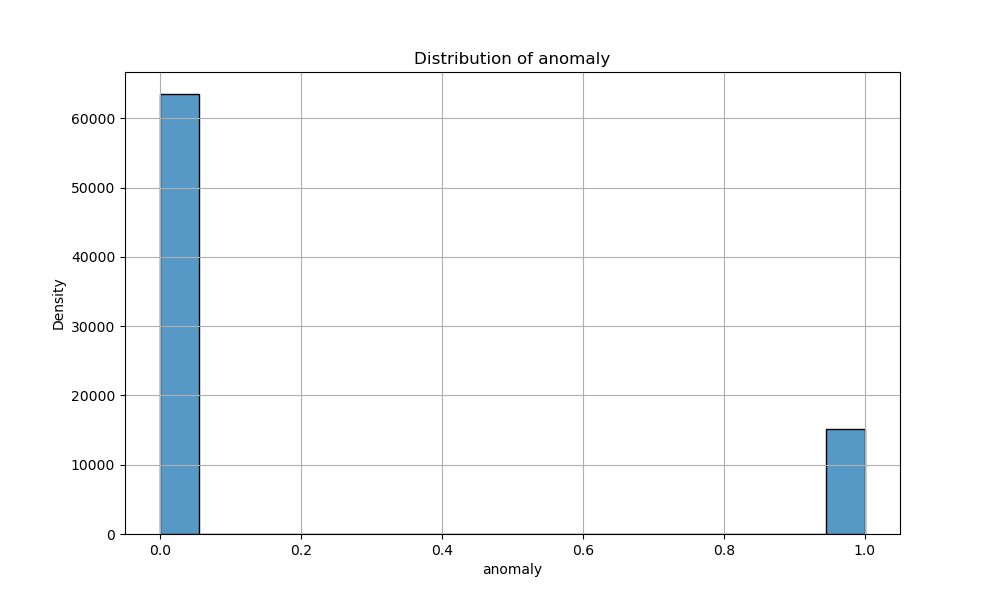
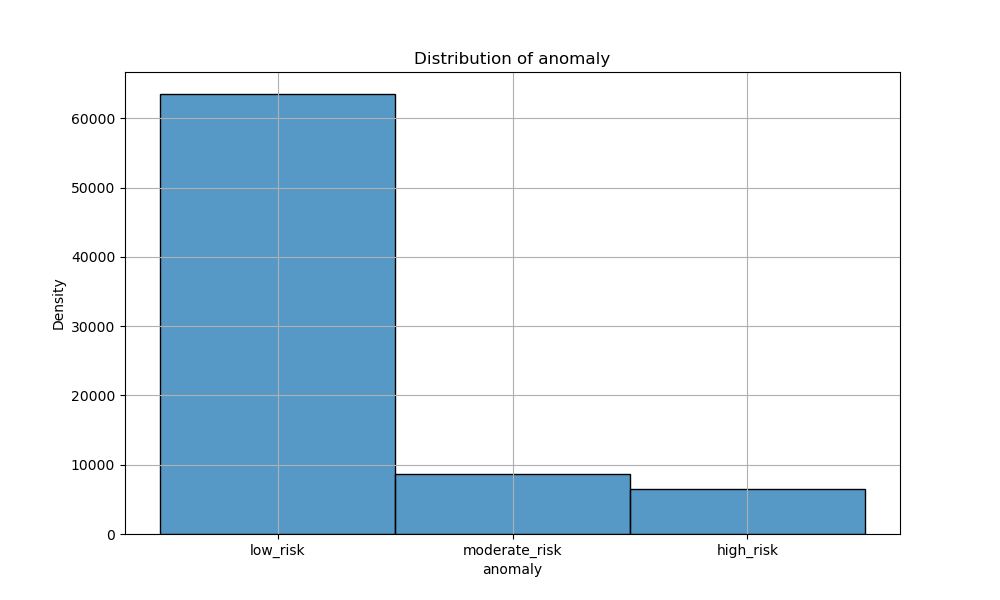
Add new metrics for unsupervised learning models

Changed region(s): [[0.186, 0.15, 0.868, 0.93], [0.155, 0.9, 0.186, 0.93]]

diff --git a/models/ds1_creditcard.py b/models/ds1_creditcard.py
@@ -281,10 +281,10 @@ if __name__ == '__main__':
     unsupervised_metrics_df = pd.DataFrame(unsupervised_metrics)
 
     # Save the metrics to a CSV file
-    metrics_df.to_csv('./Metrics(DS1).csv', index=False)
+    metrics_df.to_csv('../results/Metrics(DS1).csv', index=False)
     _logger.info('The evaluation results are saved to CSV file.')
 
-    unsupervised_metrics_df.to_csv('./Unsupervised_Metrics(DS1).csv', index=False)
+    unsupervised_metrics_df.to_csv('../results/Unsupervised_Metrics(DS1).csv', index=False)
     _logger.info('The evaluation results for unsupervised learning are saved to CSV file.')
 
     # Visualizing the results ROC-AUC Score - Runtime
@@ -298,7 +298,7 @@ if __name__ == '__main__':
     plt.xlabel('Runtime', fontsize=14, fontweight='bold')
     plt.ylabel('ROC AUC Score', fontsize=14, fontweight='bold')
     plt.title('ROC AUC Score vs Runtime comparison', fontsize=16, fontweight='bold')
-    plt.savefig('./ROC_AUC_vs_Runtime(DS1).png', bbox_inches='tight')
+    plt.savefig('../results/ROC_AUC_vs_Runtime(DS1).png', bbox_inches='tight')
     plt.show()
 
     # Visualizing the results F1 Score - Runtime
@@ -312,6 +312,6 @@ if __name__ == '__main__':
     plt.xlabel('Runtime', fontsize=14, fontweight='bold')
     plt.ylabel('F1 Score', fontsize=14, fontweight='bold')
     plt.title('F1 Score vs Runtime comparison', fontsize=16, fontweight='bold')
-    plt.savefig('./F1_Score_vs_Runtime(DS1).png', bbox_inches='tight')
+    plt.savefig('../results/F1_Score_vs_Runtime(DS1).png', bbox_inches='tight')
     plt.show()
 

diff --git a/utils/eda.py b/utils/eda.py
@@ -74,7 +74,7 @@ def distrib_plot(df, dataset_name, col_name=None):
         plt.ylabel('Density')
         plt.title(f'Distribution of {col_name}')
         plt.grid(True)
-        plt.savefig(f'{dataset_name}_{col_name}.png')
+        plt.savefig(f'../results/{dataset_name}_{col_name}.png')
         plt.show()
     else:
         print(f'Feature {col_name} not found in the dataset')
@@ -174,7 +174,7 @@ def correlation_plot(df, dataset_name):
     plt.figure(figsize=(10, 8))
     sns.heatmap(corr, xticklabels=corr.columns, yticklabels=corr.columns, linewidths=.1, annot=True, fmt='.2f', cmap='viridis', vmin=-1, vmax=1)
     plt.title(f'Correlation Matrix for {dataset_name}')
-    plt.savefig(f'{dataset_name}_corr.png')
+    plt.savefig(f'../results/{dataset_name}_corr.png')
     plt.show()
 
 if __name__ == '__main__':
@@ -190,13 +190,11 @@ if __name__ == '__main__':
     file_path = datasets[dataset_name]
 
     df = load_data(file_path)
-    summary_statistics(df)
-    missing_values(df)
+    #summary_statistics(df)
+    #missing_values(df)
     #distrib_plots_time(df, dataset_name) # Displays all plots on the same figure
-    df['anomaly'] = df['anomaly'].replace({'low_risk': 0, 'moderate_risk': 1, 'high_risk': 1})
-    df['anomaly'] = df['anomaly'].astype(int)
     distrib_plot(df, dataset_name, 'anomaly')
-    correlation_plot(df, dataset_name)
+    #correlation_plot(df, dataset_name)
 
     print(df['anomaly'].value_counts()[1])
     print(df['anomaly'].value_counts()[0])
